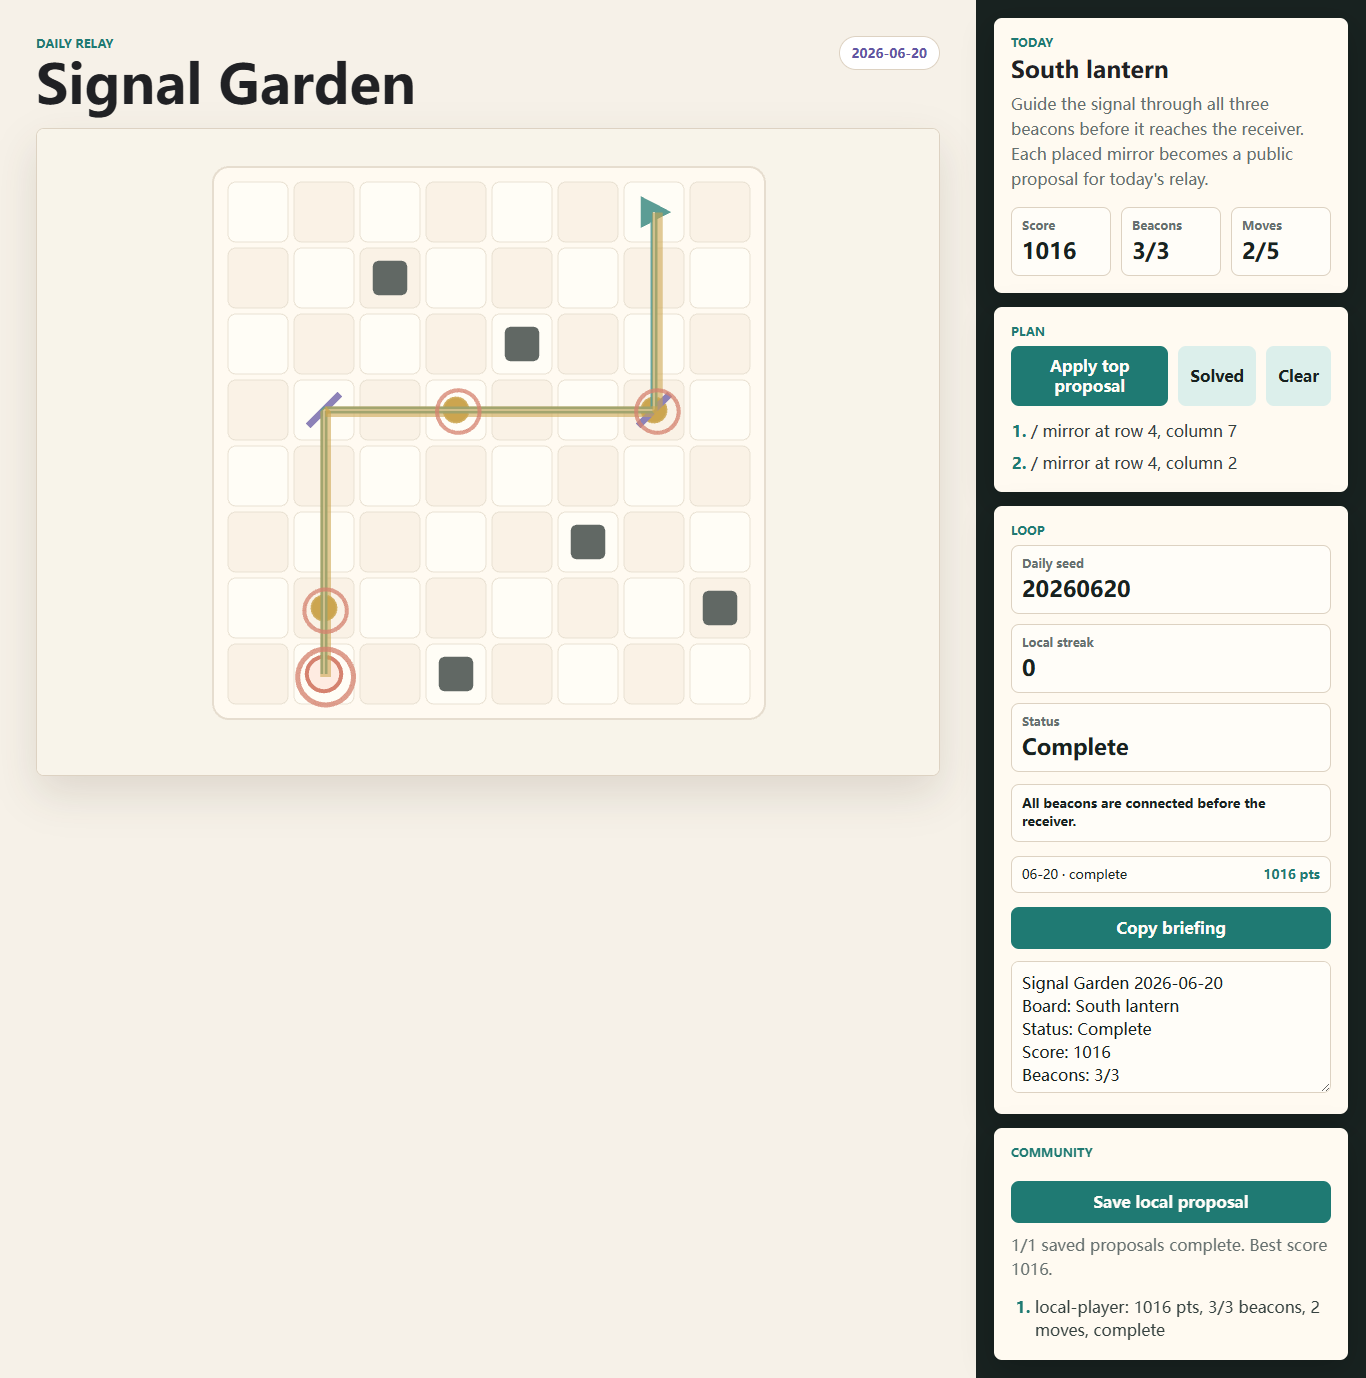
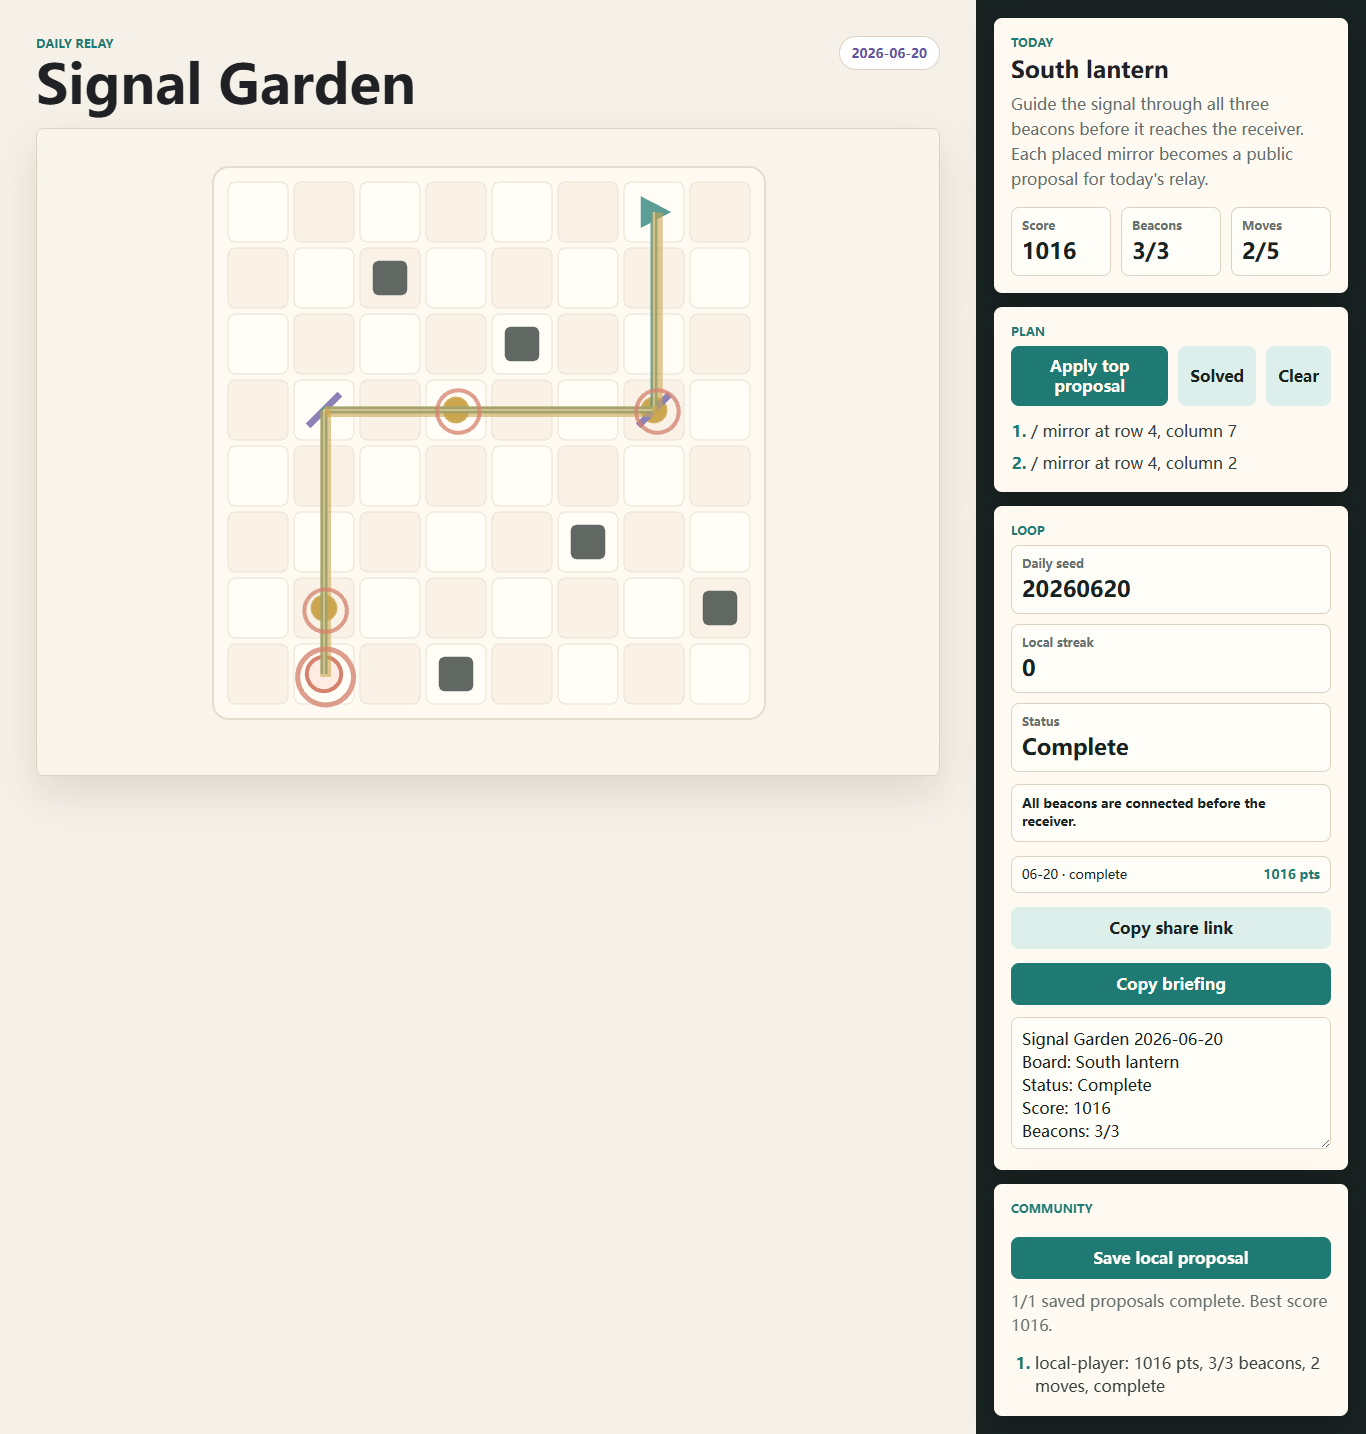
Add shareable route links

diff --git a/src/game/puzzle.js b/src/game/puzzle.js
@@ -179,6 +179,19 @@ function normalizePlan(plan = []) {
     .map((move) => ({ x: move.x, y: move.y, mirror: move.mirror }));
 }
 
+function isPlayableCell(puzzle, x, y) {
+  if (x < 0 || y < 0 || x >= puzzle.size || y >= puzzle.size) {
+    return false;
+  }
+  if (x === puzzle.source.x && y === puzzle.source.y) {
+    return false;
+  }
+  if (x === puzzle.target.x && y === puzzle.target.y) {
+    return false;
+  }
+  return !puzzle.blockers.some((cell) => cell.x === x && cell.y === y);
+}
+
 export function createDailyPuzzle(date = new Date()) {
   const key = dayKey(date);
   const random = mulberry32(hashSeed(`signal-garden:${key}`));
@@ -214,6 +227,32 @@ export function mapToPlan(placements) {
     const [x, y] = key.split(",").map(Number);
     return { x, y, mirror };
   });
+}
+
+export function encodePlanToken(plan = []) {
+  return normalizePlan(plan)
+    .map((move) => `${move.x}-${move.y}-${move.mirror === "slash" ? "s" : "b"}`)
+    .join(".");
+}
+
+export function decodePlanToken(token, puzzle) {
+  if (!token || typeof token !== "string") {
+    return [];
+  }
+
+  return token
+    .split(".")
+    .map((part) => {
+      const [rawX, rawY, rawMirror] = part.split("-");
+      const x = Number(rawX);
+      const y = Number(rawY);
+      const mirror = rawMirror === "s" ? "slash" : rawMirror === "b" ? "backslash" : "";
+      return { x, y, mirror };
+    })
+    .filter((move) => Number.isInteger(move.x) && Number.isInteger(move.y))
+    .filter((move) => move.mirror === "slash" || move.mirror === "backslash")
+    .filter((move) => isPlayableCell(puzzle, move.x, move.y))
+    .slice(0, puzzle.moveLimit || MOVE_LIMIT);
 }
 
 export function traceSignal(puzzle, plan = []) {

diff --git a/src/ui.js b/src/ui.js
@@ -1,5 +1,5 @@
 import { createCommunityClient } from "./client/communityClient.js";
-import { describeResult } from "./game/puzzle.js";
+import { describeResult, encodePlanToken } from "./game/puzzle.js";
 import { getLocalArchive, getLocalStreak, savePlan } from "./state/store.js";
 
 const statusText = {
@@ -30,6 +30,7 @@ export function bindUi(scene, { communityClient = createCommunityClient() } = {}
     statusHint: document.querySelector("#status-hint"),
     archiveList: document.querySelector("#archive-list"),
     briefing: document.querySelector("#briefing-output"),
+    copyLink: document.querySelector("#copy-link"),
     applyPlan: document.querySelector("#apply-plan"),
     hintPlan: document.querySelector("#hint-plan"),
     clearPlan: document.querySelector("#clear-plan"),
@@ -64,6 +65,25 @@ export function bindUi(scene, { communityClient = createCommunityClient() } = {}
       document.execCommand("copy");
     }
   });
+  refs.copyLink.addEventListener("click", async () => {
+    if (!latest?.plan?.length) {
+      return;
+    }
+    const url = new URL(window.location.href);
+    url.searchParams.set("day", latest.puzzle.id);
+    url.searchParams.set("plan", encodePlanToken(latest.plan));
+    try {
+      await navigator.clipboard.writeText(url.toString());
+      refs.copyLink.textContent = "Link copied";
+      window.setTimeout(() => {
+        refs.copyLink.textContent = "Copy share link";
+      }, 1200);
+    } catch {
+      refs.briefing.value = `${refs.briefing.value}\nShare link: ${url.toString()}`;
+      refs.briefing.select();
+      document.execCommand("copy");
+    }
+  });
 
   refs.saveProposal.addEventListener("click", async () => {
     if (!latest) {
@@ -93,6 +113,7 @@ export function bindUi(scene, { communityClient = createCommunityClient() } = {}
     refs.score.textContent = String(result.score);
     refs.beacons.textContent = `${result.hitBeacons.length}/${puzzle.beacons.length}`;
     refs.moves.textContent = `${plan.length}/${puzzle.moveLimit}`;
+    refs.copyLink.disabled = plan.length === 0;
     refs.seed.textContent = puzzle.id.replaceAll("-", "");
     refs.streak.textContent = String(getLocalStreak(puzzle.id));
     refs.status.textContent = statusText[result.status] || "Drafting";

diff --git a/src/main.js b/src/main.js
@@ -1,14 +1,17 @@
 import Phaser from "phaser";
 import "./styles.css";
 import { SignalGardenScene } from "./game/SignalGardenScene.js";
-import { createDailyPuzzle } from "./game/puzzle.js";
+import { createDailyPuzzle, decodePlanToken } from "./game/puzzle.js";
 import { loadPlan } from "./state/store.js";
 import { bindUi } from "./ui.js";
 
 const puzzle = createDailyPuzzle();
+const params = new URLSearchParams(window.location.search);
+const sharedDay = params.get("day");
+const sharedPlan = sharedDay === puzzle.id ? decodePlanToken(params.get("plan"), puzzle) : [];
 const scene = new SignalGardenScene({
   puzzle,
-  initialPlan: loadPlan(puzzle.id),
+  initialPlan: sharedPlan.length ? sharedPlan : loadPlan(puzzle.id),
 });
 
 const game = new Phaser.Game({
@@ -32,4 +35,3 @@ window.signalGarden = {
   game,
   scene,
 };
-

diff --git a/index.html b/index.html
@@ -68,6 +68,7 @@
           </div>
           <p id="status-hint" class="status-hint" aria-live="polite"></p>
           <ol id="archive-list" class="archive-list" aria-label="Recent garden archive"></ol>
+          <button id="copy-link" class="wide secondary" type="button">Copy share link</button>
           <button id="copy-briefing" class="wide" type="button">Copy briefing</button>
           <textarea id="briefing-output" readonly aria-label="Briefing output"></textarea>
         </section>

diff --git a/docs/demo-script.md b/docs/demo-script.md
@@ -26,20 +26,24 @@ Signal Garden is a daily community relay puzzle. Each player proposes a route by
    - Say: "Each route becomes a proposal. The app recomputes the score and ranks the best plan."
    - Show the consensus summary changing to `1/1 saved proposals complete`.
 
-5. Clear and apply the top proposal.
+5. Copy the share link.
+   - Say: "A share link carries the exact route into a post, comment, or review thread."
+   - Show the copy button changing to `Link copied`.
+
+6. Clear and apply the top proposal.
    - Say: "The top proposal is not a hidden answer. It is the best saved community plan."
    - Show the board returning to the saved route.
 
-6. Show the loop panel.
+7. Show the loop panel.
    - Say: "The local archive and streak make the daily board feel persistent."
    - Point out daily seed, local streak, status, and archive row.
 
-7. Close on the platform path.
+8. Close on the platform path.
    - Say: "The browser version is testable today, and the Devvit shell keeps the client and server adapter ready for a Reddit surface."
 
 ## Submission Caption
 
-Daily Phaser puzzle with seven verified board templates, local proposal consensus, a compact archive/streak loop, explainable route feedback, and a Devvit-ready adapter boundary.
+Daily Phaser puzzle with seven verified board templates, local proposal consensus, shareable route links, a compact archive/streak loop, explainable route feedback, and a Devvit-ready adapter boundary.
 
 ## Field Notes
 

diff --git a/docs/gallery_assets.md b/docs/gallery_assets.md
@@ -9,11 +9,11 @@ Generated: 2026-06-20
    - First gallery image or social preview.
 
 2. `docs/desktop-preview.png`
-   - 1366x1378
+   - 1366x1434
    - Desktop play surface with side controls, authentic top proposal flow, local archive, and consensus panel.
 
 3. `docs/mobile-preview.png`
-   - 390x2260
+   - 390x2316
    - Narrow viewport check for the full interaction surface, archive, and proposal list.
 
 4. `docs/demo.webm`
@@ -32,7 +32,7 @@ Generated: 2026-06-20
 
 ## Caption
 
-Daily browser puzzle prototype with seven verified board templates, adapter-backed local proposal consensus, recent archive state, optional progressive hints, explainable route feedback, a compact briefing export, and a captioned demo candidate.
+Daily browser puzzle prototype with seven verified board templates, adapter-backed local proposal consensus, shareable route links, recent archive state, optional progressive hints, explainable route feedback, a compact briefing export, and a captioned demo candidate.
 
 ## Guardrails
 

diff --git a/docs/submission-field-pack.md b/docs/submission-field-pack.md
@@ -10,13 +10,14 @@ Signal Garden is a daily Phaser relay puzzle where players place mirrors, guide 
 
 Signal Garden explores a daily community puzzle loop for Reddit-style surfaces. A deterministic board appears each day with a source, receiver, blockers, three beacons, and a five-move limit. Players place mirrors to route the signal, then save the route as a proposal.
 
-The proposal layer recomputes scores from the shared puzzle rules instead of trusting client-provided values. Saved proposals are ranked by completion, score, and move count, and the player can apply the current top proposal back onto the board. A compact archive and streak panel give the experience a reason to return on the next daily board.
+The proposal layer recomputes scores from the shared puzzle rules instead of trusting client-provided values. Saved proposals are ranked by completion, score, and move count, and the player can apply the current top proposal back onto the board. Share links reopen a specific route on the same daily board, while a compact archive and streak panel give the experience a reason to return on the next daily board.
 
 The current build includes seven verified puzzle templates, Phaser rendering, local persistence, a server-shaped proposal adapter, a Redis-shaped store, and a Devvit shell for pre-account validation.
 
 ## What Makes It Social
 
 - Each mirror route is a proposal.
+- Each route can be shared as a link that reopens the same plan.
 - The top route can be applied by the community.
 - The briefing output is short enough to fit in a post or comment.
 - Daily boards and archive rows support recurring discussion.
@@ -27,6 +28,7 @@ The current build includes seven verified puzzle templates, Phaser rendering, lo
 - Shared deterministic puzzle engine.
 - Status hints and board markers for complete, blocked, lost, and partial paths.
 - Optional progressive hints that avoid spoiling the board on first load.
+- Compact route encoding for share links.
 - Server-shaped `init`, `proposal`, and `archive` adapter.
 - Score recomputation on proposal submission.
 - Redis-shaped proposal store with tests.
@@ -37,6 +39,7 @@ The current build includes seven verified puzzle templates, Phaser rendering, lo
 - Show a full board in the first five seconds.
 - Complete a route through all three beacons.
 - Save the proposal and show the consensus summary.
+- Copy a share link for the exact route.
 - Clear the board and apply the top proposal.
 - Show daily seed, streak, archive, and briefing output.
 - Avoid account pages and private consoles.

diff --git a/docs/design.md b/docs/design.md
@@ -19,7 +19,7 @@
 
 ## Community Proposal Layer
 
-The current prototype saves proposals locally, ranks completed paths above partial paths, and produces a compact consensus payload. Applying the top proposal uses the best saved plan rather than a hidden answer. This keeps the community loop testable before a platform adapter exists.
+The current prototype saves proposals locally, ranks completed paths above partial paths, and produces a compact consensus payload. Applying the top proposal uses the best saved plan rather than a hidden answer. Share links encode the daily route so a post or review thread can reopen the same plan. This keeps the community loop testable before a platform adapter exists.
 
 Future server routes should recompute every proposal score from the shared puzzle module instead of trusting client-provided values.
 

diff --git a/README.md b/README.md
@@ -33,6 +33,7 @@ npm run record:demo
 - Local-only persistence with no credentials or private account data.
 - Local proposal consensus that ranks saved player plans.
 - A real "apply top proposal" flow: the UI applies the best saved community plan, not a hidden answer.
+- Share links that reopen the same daily route for review or discussion.
 - Recent local archive and streak state for the daily return loop.
 - Completion pulse feedback for solved boards.
 - Status hints and board markers for blocked, lost, and partial routes.